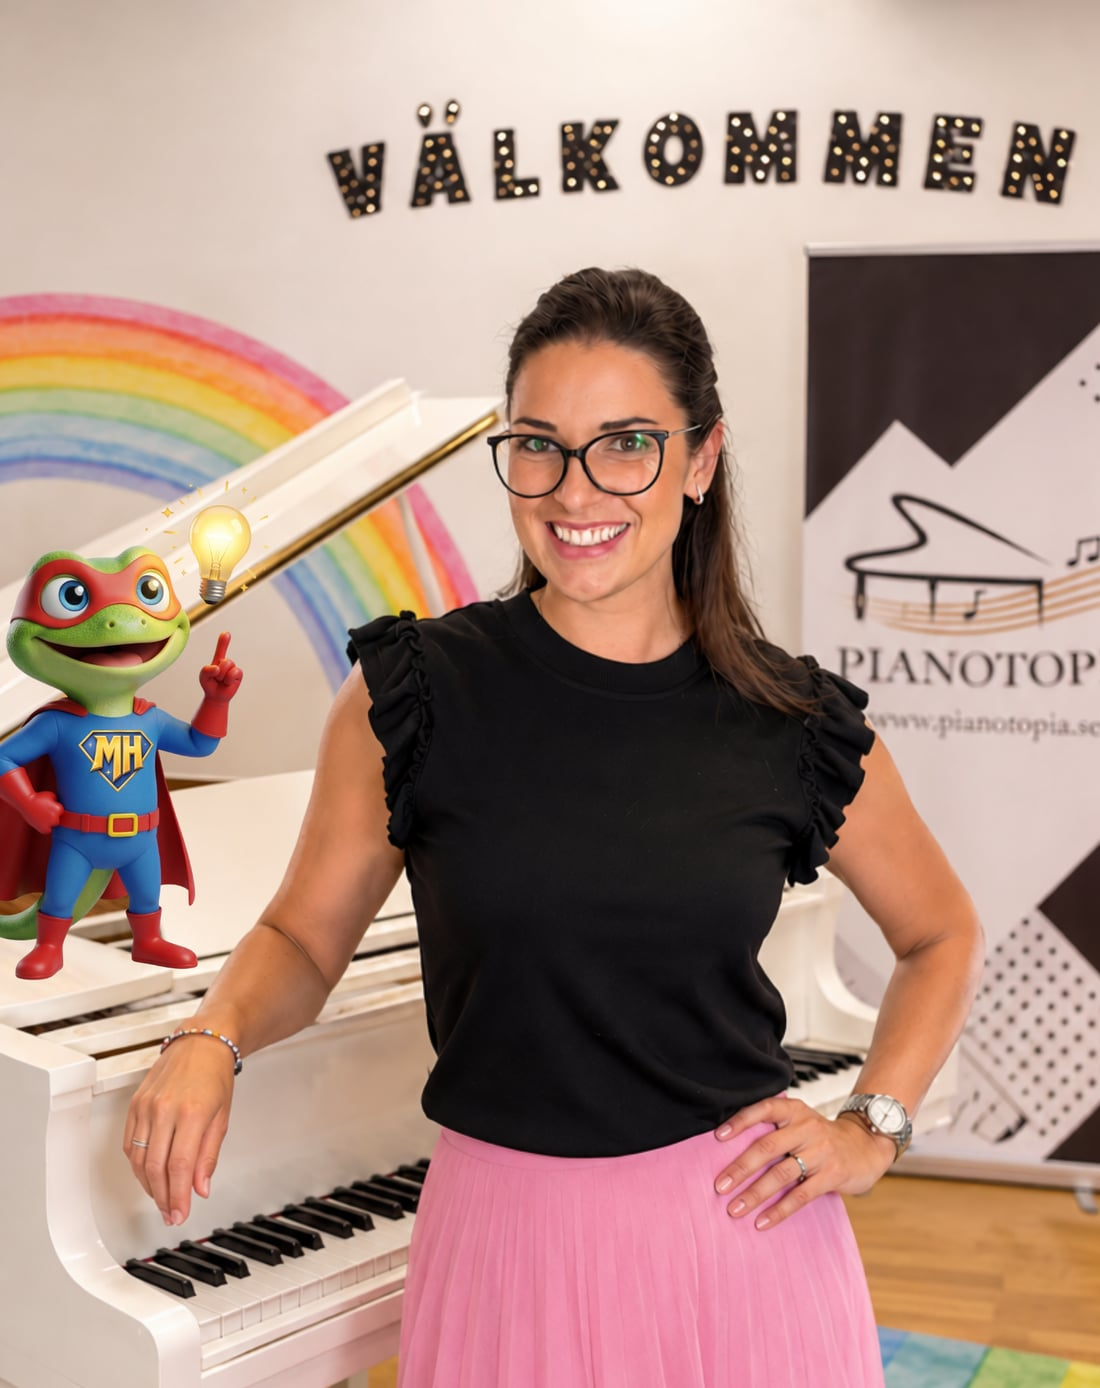
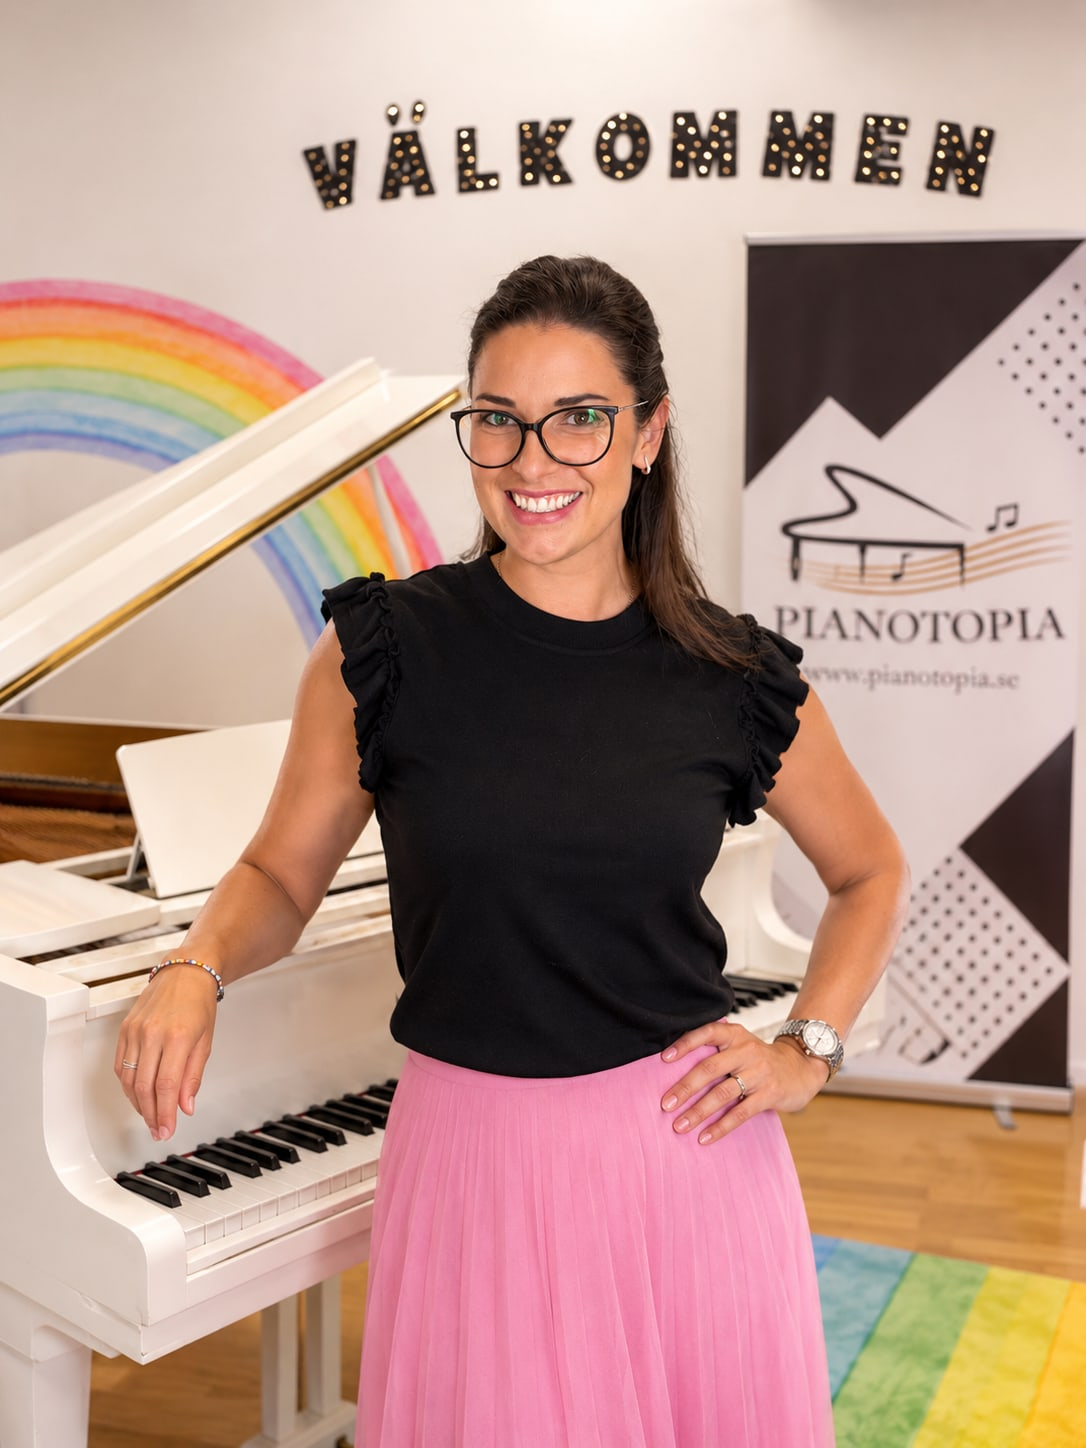
feat(content): Gilbert with his idea beside Suzana's photo
As the client asked: Suzana's own photo again, with the lizard beside it
replaced by "Gilbert ide.jpeg", cut out of its white background, like
their example "Suzana+Gilbert.png".

diff --git a/src/lib/images.ts b/src/lib/images.ts
@@ -13,7 +13,8 @@ export type ImageName =
   | 'hero-photo'
   | 'app-example-avatar'
   | 'family-photo'
-  | 'pedagogue-photo';
+  | 'pedagogue-photo'
+  | 'pedagogue-mascot';
 
 const files = import.meta.glob<{ default: ImageMetadata }>('/src/assets/images/*.{png,jpg,jpeg,webp,avif}', {
   eager: true,

diff --git a/src/assets/images/README.md b/src/assets/images/README.md
@@ -6,17 +6,18 @@ the name. Prefer transparent PNG for characters.
 
 The current files come from the client's asset folder ("Landing page", November 2026, adjusted 12 November).
 
-| File name            | Content now                                               | Source file                                             | Used in                     |
-| -------------------- | --------------------------------------------------------- | ------------------------------------------------------- | --------------------------- |
-| `emblem`             | MH logo on white, square                                  | `Logga MH teal.png`                                     | Subscription card           |
-| `wordmark`           | "Musikhjältarna" title banner, transparent background     | Cut out of `Produkt i miljö/Rubrik Musikhjältarna.jpeg` | Header, subscription card   |
-| `hero-photo`         | Girl at the piano with the app and Gilbert G-klav (4:3)   | `app+Gilbert+flicka vid pianot.png`, cropped            | Hero, in the wide arch      |
-| `step-start`         | Child using the app on a tablet (photo)                   | `Suzana + elev/Real-life user.png`                      | "Så fungerar", step 1       |
-| `step-practise`      | The app's piano keys with Gilbert                         | `Mock-up2.png`, cropped                                 | "Så fungerar", step 2       |
-| `step-reward`        | Gilbert with golden gloves, sticker on white              | `Gyllene handskar Gilbert klistermärke.png`             | "Så fungerar", step 3       |
-| `app-example-avatar` | Gilbert G-klav, head and shoulders (square)               | Cropped from `Mock-up2.png`                             | Practice example card       |
-| `family-photo`       | Child giving Gilbert G-klav a high five on the sofa       | `Suzana + elev/Elev+Gilbert.png`                        | "För hela familjen" section |
-| `pedagogue-photo`    | Suzana Spasevska Hermansen with Gilbert's idea pose (4:5) | `suzana+gilbert1.png`, cropped                          | Pedagogue section           |
+| File name            | Content now                                              | Source file                                             | Used in                     |
+| -------------------- | -------------------------------------------------------- | ------------------------------------------------------- | --------------------------- |
+| `emblem`             | MH logo on white, square                                 | `Logga MH teal.png`                                     | Subscription card           |
+| `wordmark`           | "Musikhjältarna" title banner, transparent background    | Cut out of `Produkt i miljö/Rubrik Musikhjältarna.jpeg` | Header, subscription card   |
+| `hero-photo`         | Girl at the piano with the app and Gilbert G-klav (4:3)  | `app+Gilbert+flicka vid pianot.png`, cropped            | Hero, in the wide arch      |
+| `step-start`         | Child using the app on a tablet (photo)                  | `Suzana + elev/Real-life user.png`                      | "Så fungerar", step 1       |
+| `step-practise`      | The app's piano keys with Gilbert                        | `Mock-up2.png`, cropped                                 | "Så fungerar", step 2       |
+| `step-reward`        | Gilbert with golden gloves, sticker on white             | `Gyllene handskar Gilbert klistermärke.png`             | "Så fungerar", step 3       |
+| `app-example-avatar` | Gilbert G-klav, head and shoulders (square)              | Cropped from `Mock-up2.png`                             | Practice example card       |
+| `family-photo`       | Child giving Gilbert G-klav a high five on the sofa      | `Suzana + elev/Elev+Gilbert.png`                        | "För hela familjen" section |
+| `pedagogue-photo`    | Suzana Spasevska Hermansen (3:4)                         | `Suzana + elev/Suzana Pianotopia profil.PNG`            | Pedagogue section           |
+| `pedagogue-mascot`   | Gilbert G-klav with a light bulb, transparent background | Cut out of `Gilbert ide.jpeg`                           | Pedagogue, beside the photo |
 
 Photos fill the step frame; app art and stickers are shown whole (see
 `stepImages` in `HowItWorks.astro`).
